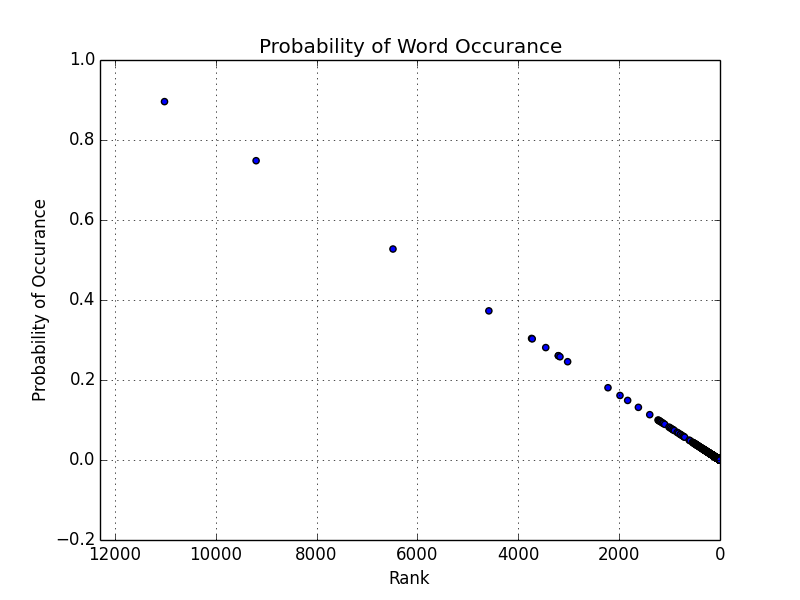
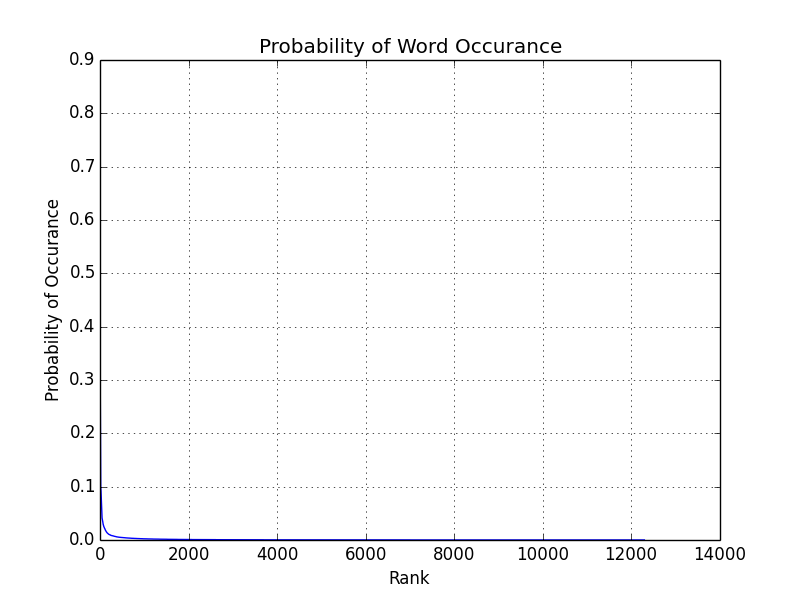
redid the plot

diff --git a/plot_terms.py b/plot_terms.py
@@ -21,8 +21,7 @@ print freq[len(freq)-1]
 print prob[len(prob)-1]
 
 
-plt.scatter(freq, prob)
-plt.xlim(len(freq),0)
+plt.plot(prob)
 plt.title('Probability of Word Occurance')
 plt.ylabel('Probability of Occurance')
 plt.xlabel('Rank')
